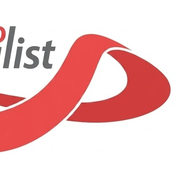
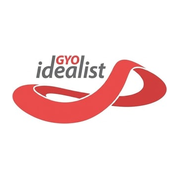
Site simgesi: logonun tamamı kare zeminde ortada
Google arama sonucunda simge daireye kırpıldığında logo yarım görünüyordu
(eski simge logonun sağ kısmından kırpılmıştı).

Claude-Session: https://claude.ai/code/session_01JwUxGMSdZN419zCnvu83cu

diff --git a/araclar/degisiklikler/2026-10-29-favicon.py b/araclar/degisiklikler/2026-10-29-favicon.py
@@ -1,0 +1,26 @@
+# -*- coding: utf-8 -*-
+"""
+29.10.2026 kullanıcı: Google arama sonucundaki site simgesinde logo yarım görünüyor.
+Eski simge, yatay logonun sağ kısmından kırpılmış kareydi ("ilist" + kurdele); Google simgeyi daireye de kırptığı için
+logo kesik görünüyordu. Yeni simge: logonun tamamı (site/logo/idealist-gyo-logo-330.jpg, beyaz kenarları atılmış)
+beyaz kare zeminde ortada, genişliğin %86'sı — daire kırpmasında da logo bütünüyle görünür.
+Dosya adları aynı (favicon.ico 16/32/48, favicon-96.png, apple-touch-icon.png 180); sayfalara dokunulmaz.
+"""
+import os
+import PIL.ImageOps as O
+from PIL import Image
+
+SITE = os.path.join(os.path.dirname(os.path.dirname(os.path.dirname(os.path.abspath(__file__)))), 'site')
+L = Image.open(os.path.join(SITE, 'logo', 'idealist-gyo-logo-330.jpg')).convert('RGB')
+L = L.crop(O.invert(L.convert('L')).point(lambda v: 255 if v > 18 else 0).getbbox())
+
+def kare(n, oran=0.86):
+    im = Image.new('RGB', (n, n), 'white')
+    w = round(n * oran); h = round(L.height * w / L.width)
+    im.paste(L.resize((w, h), Image.LANCZOS), ((n - w) // 2, (n - h) // 2))
+    return im
+
+kare(180).save(os.path.join(SITE, 'apple-touch-icon.png'), optimize=True)
+kare(96).save(os.path.join(SITE, 'favicon-96.png'), optimize=True)
+kare(256).save(os.path.join(SITE, 'favicon.ico'), sizes=[(16, 16), (32, 32), (48, 48)])
+print('simgeler yazıldı')
